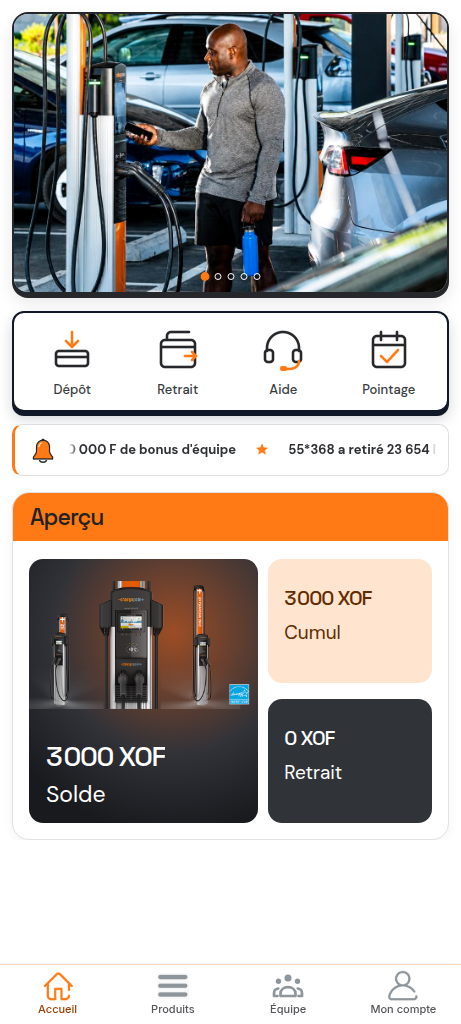
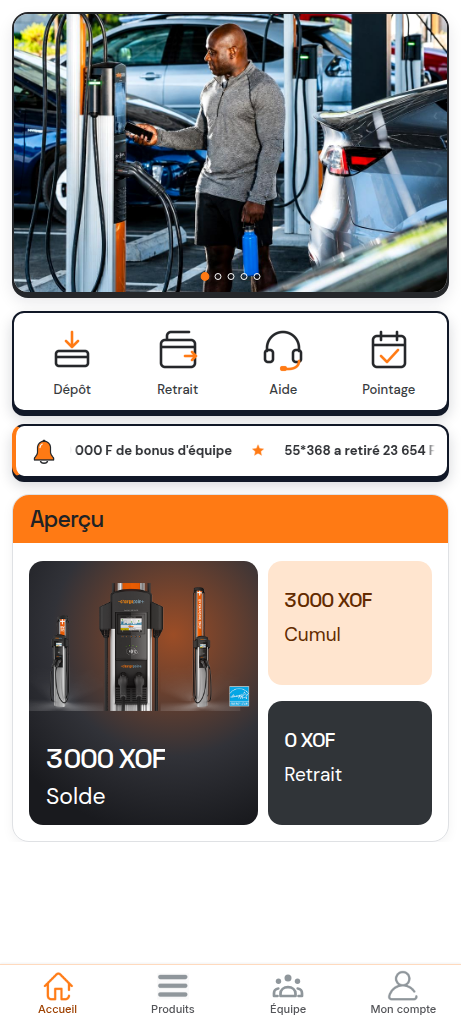
Update home page styling and comparison screenshot
Replit-Commit-Author: Agent

diff --git a/client/src/pages/home.css b/client/src/pages/home.css
@@ -28,7 +28,7 @@
 .cp-action-icon img { display:block; width:48px; height:48px; object-fit:contain; }
 .cp-action:hover .cp-action-icon { transform:translateY(-3px); }
 .cp-action:focus-visible,.cp-notice:focus-visible,.cp-balance:focus-visible { outline:2px solid var(--cp-orange); outline-offset:2px; }
-.cp-notice { display:flex; align-items:center; gap:10px; width:calc(100% - 24px); margin:12px 12px 0; min-height:48px; padding:9px 12px; border:1px solid #dededc; border-left:3px solid var(--cp-orange); border-radius:10px; background:#fff; text-align:left; color:#52565a; font-size:12px; overflow:hidden; cursor:pointer; }
+.cp-notice { display:flex; align-items:center; gap:10px; width:calc(100% - 24px); margin:12px 12px 0; min-height:48px; padding:9px 12px; border:2px solid #111827; border-left:4px solid var(--cp-orange); border-radius:12px; background:#ffffff; box-shadow:0 4px 0 #111827, 0 7px 14px rgba(17,24,39,.18); text-align:left; color:#52565a; font-size:12px; overflow:hidden; cursor:pointer; }
 .cp-notice-icon { flex:none; display:grid; place-items:center; width:32px; height:32px; }
 .cp-notice-icon img { display:block; width:26px; height:26px; object-fit:contain; }
 .cp-notice-marquee { flex:1; min-width:0; overflow:hidden; -webkit-mask-image:linear-gradient(90deg,transparent,#000 8px,#000 calc(100% - 8px),transparent); mask-image:linear-gradient(90deg,transparent,#000 8px,#000 calc(100% - 8px),transparent); }
